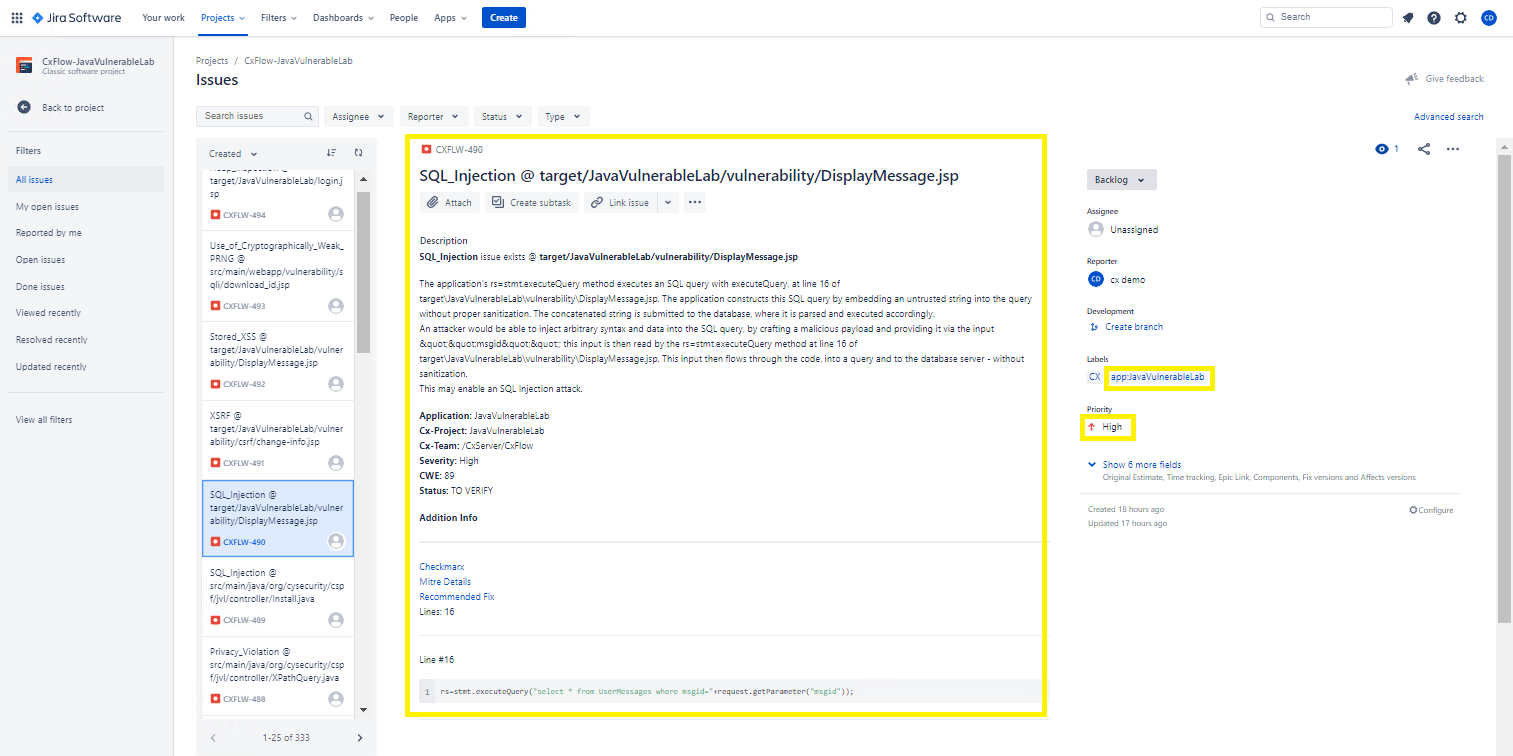
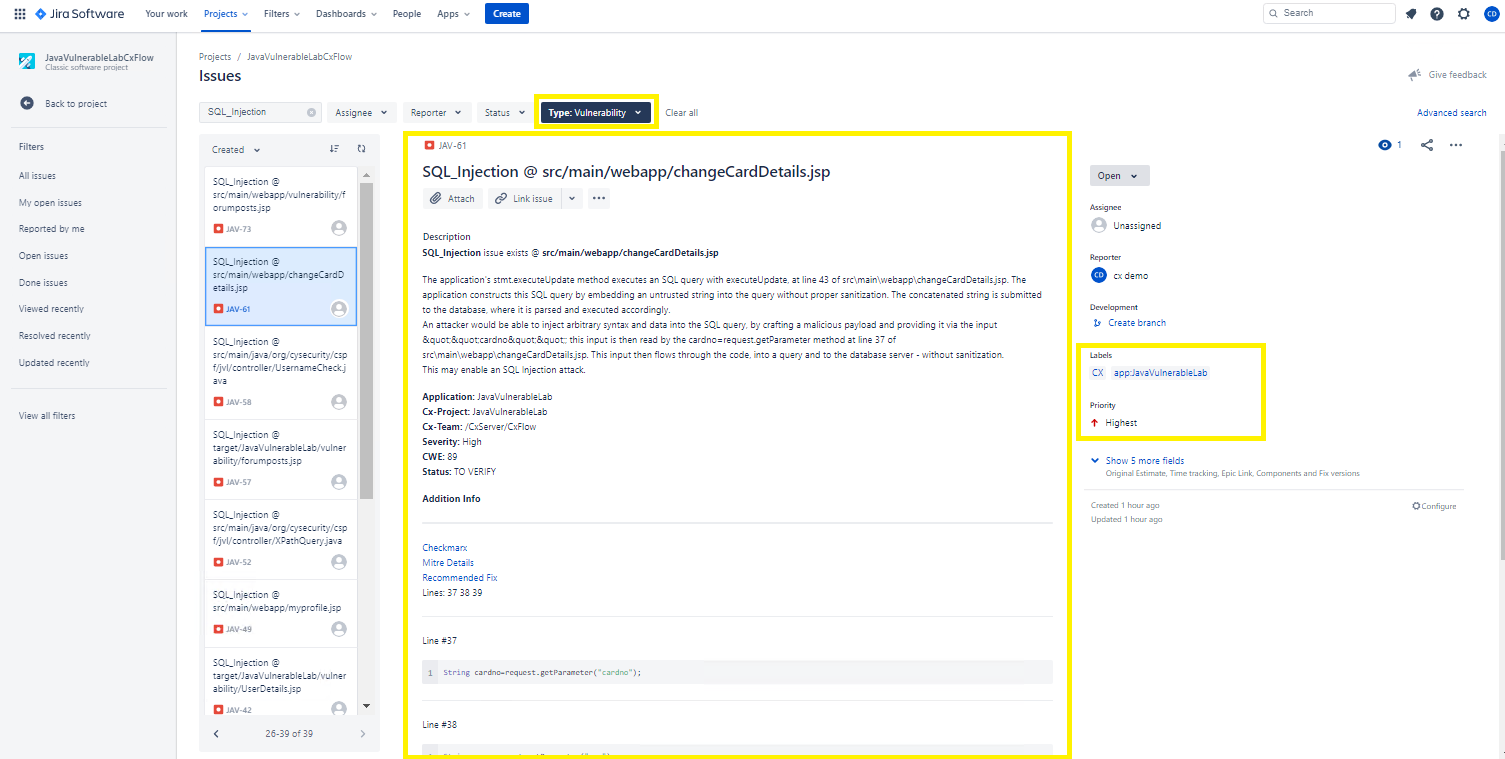
Updated to reflect customized secure workflow

diff --git a/cxflow/jenkins-jira/README.MD b/cxflow/jenkins-jira/README.MD
@@ -72,15 +72,15 @@ CxFlow can also support Jenkins declarative/scripted pipeline, and has flexibilt
     --jira.username="$JIRA_USERNAME" \
     --jira.token="$JIRA_TOKEN" \
     --jira.project="<Jira project key>" \
-    --jira.issue-type="Bug" \
-    --jira.priorities.High="High" \
-    --jira.priorities.Medium="Medium" \
-    --jira.priorities.Low="Low" \
+    --jira.issue-type="Vulnerability" \
+    --jira.priorities.High="Highest" \
+    --jira.priorities.Medium="High" \
+    --jira.priorities.Low="Medium" \
     --jira.priorities.informational="Lowest" \
-    --jira.open-transition="In Progress" \
-    --jira.close-transition="Done" \
-    --jira.open-status="Backlog, Selected for Development, In Progress" \
-    --jira.closed-status="Done"
+    --jira.open-transition="To Do" \
+    --jira.close-transition="Closed" \
+    --jira.open-status="Open, In Progress, To Do, In Review, Review False Postive" \
+    --jira.closed-status="Closed"
     ```
 
     - Execute CxSAST scan via CxFlow Jar library
@@ -127,8 +127,6 @@ CxFlow can also support Jenkins declarative/scripted pipeline, and has flexibilt
   
 5. View Jira Issue
    ![Jira Issue](assets/Jira_Ticket.png)
-    
-   ![Jira Issue Board](assets/Jira_KanbanBoard.png)
   
 6. Break pipeline upon occurences of filtered issues by severity
    ![Fail Jenkins pipeline](assets/Jenkins_Pipeline_Start.png)
